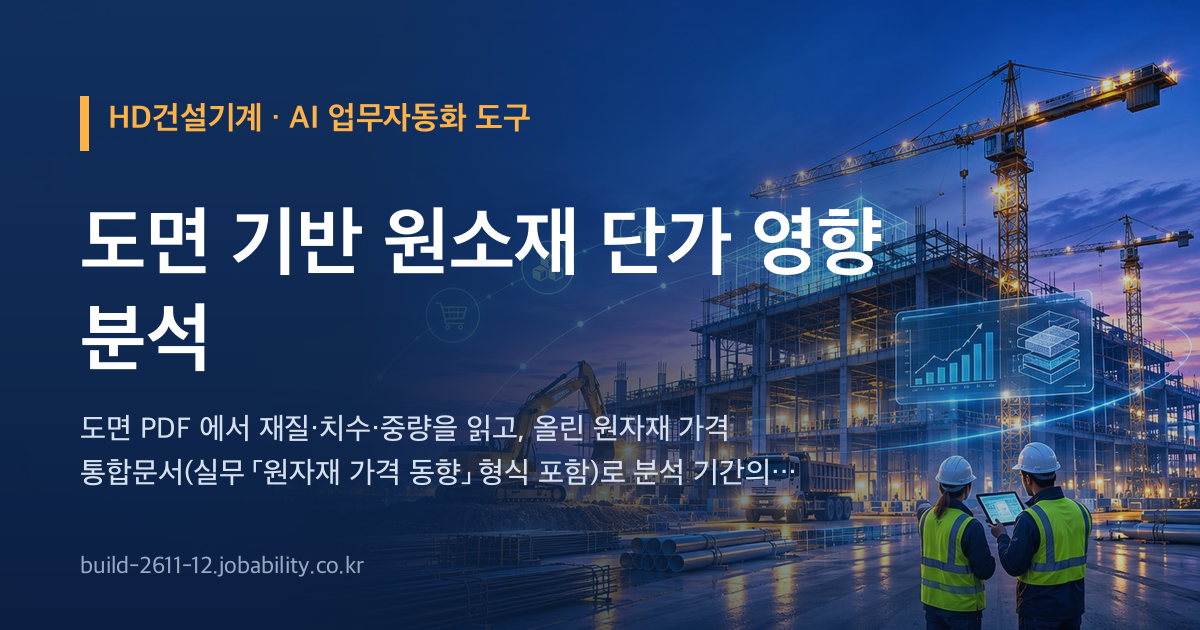
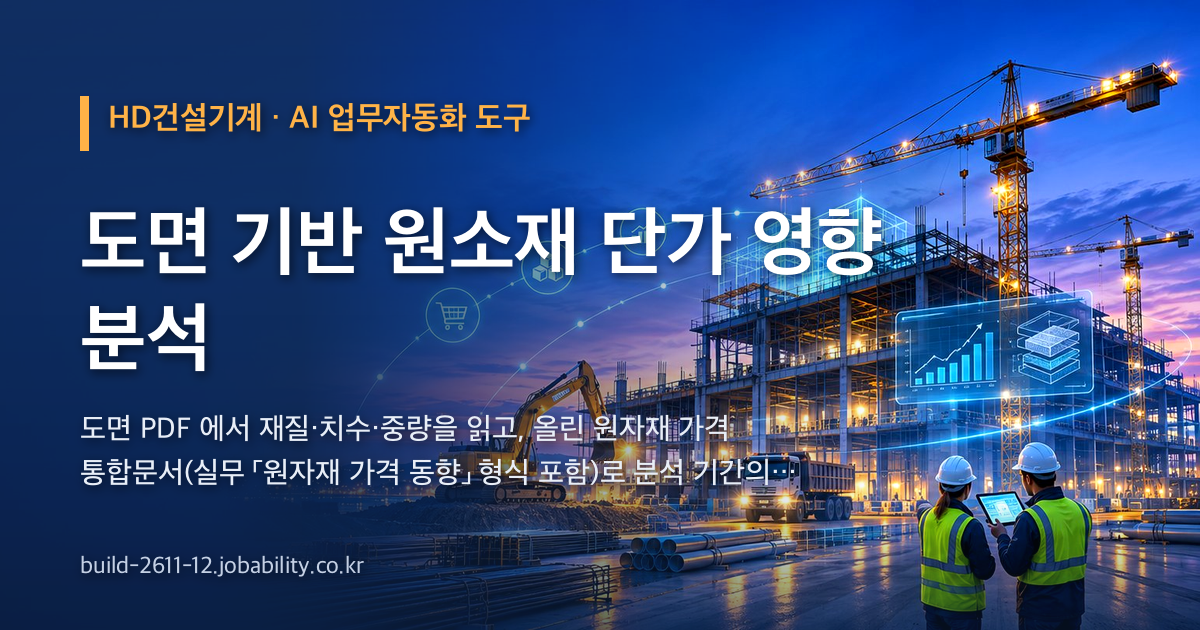
공유 그림 다시(사진 또렷하게) · 판 2026-11-13.12

diff --git a/index.html b/index.html
@@ -12,8 +12,8 @@
 <meta property="og:title" content="HD건설기계 · 도면 기반 원소재 단가 영향 분석">
 <meta property="og:description" content="도면 PDF 에서 재질·치수·중량을 읽고, 올린 원자재 가격 통합문서(실무 「원자재 가격 동향」 형식 포함)로 분석 기간의 가격 변동률을 구해 소재 원가 × 변동률만큼의 제품 단가 영향을 계산하는 브라우저 도구입니다. 규격 칸의 재질로 Index 를 맞추고, 맞는 Index 가 없으면">
 <meta property="og:url" content="https://build-2611-12.jobability.co.kr/">
-<meta property="og:image" content="https://build-2611-12.jobability.co.kr/og-image.png">
-<meta property="og:image:secure_url" content="https://build-2611-12.jobability.co.kr/og-image.png">
+<meta property="og:image" content="https://build-2611-12.jobability.co.kr/og-image.png?v=2">
+<meta property="og:image:secure_url" content="https://build-2611-12.jobability.co.kr/og-image.png?v=2">
 <meta property="og:image:type" content="image/png">
 <meta property="og:image:width" content="1200">
 <meta property="og:image:height" content="630">
@@ -22,7 +22,7 @@
 <meta name="twitter:card" content="summary_large_image">
 <meta name="twitter:title" content="HD건설기계 · 도면 기반 원소재 단가 영향 분석">
 <meta name="twitter:description" content="도면 PDF 에서 재질·치수·중량을 읽고, 올린 원자재 가격 통합문서(실무 「원자재 가격 동향」 형식 포함)로 분석 기간의 가격 변동률을 구해 소재 원가 × 변동률만큼의 제품 단가 영향을 계산하는 브라우저 도구입니다. 규격 칸의 재질로 Index 를 맞추고, 맞는 Index 가 없으면">
-<meta name="twitter:image" content="https://build-2611-12.jobability.co.kr/og-image.png">
+<meta name="twitter:image" content="https://build-2611-12.jobability.co.kr/og-image.png?v=2">
 <!-- /seo-kit -->
 <meta name="description" content="도면 PDF 에서 재질·치수·중량을 읽고, 올린 원자재 가격 통합문서(실무 「원자재 가격 동향」 형식 포함)로 분석 기간의 가격 변동률을 구해 소재 원가 × 변동률만큼의 제품 단가 영향을 계산하는 브라우저 도구입니다. 규격 칸의 재질로 Index 를 맞추고, 맞는 Index 가 없으면 같은 계열 후보를 가격 움직임으로 비교해 추정으로 보여 줍니다.">
 <link rel="icon" href="favicon.svg" type="image/svg+xml">
@@ -30,9 +30,9 @@
 <link rel="stylesheet" href="css/app.css">
 <!-- auth-kit: 로그인 전에는 도구 화면을 감춘다(js/auth.js 가 판정 뒤 푼다) -->
 <script>document.documentElement.classList.add('auth-lock')</script>
-<link rel="stylesheet" href="css/auth.css?v=2026-11-13.11">
-<link rel="stylesheet" href="css/board.css?v=2026-11-13.11">
-<link rel="stylesheet" href="css/kit-build.css?v=2026-11-13.11">
+<link rel="stylesheet" href="css/auth.css?v=2026-11-13.12">
+<link rel="stylesheet" href="css/board.css?v=2026-11-13.12">
+<link rel="stylesheet" href="css/kit-build.css?v=2026-11-13.12">
 <!-- /auth-kit -->
 </head>
 <body>
@@ -156,11 +156,11 @@
 <script src="js/costidx.js"></script>
 <script src="js/app.js"></script>
 <!-- auth-kit: 로그인 · 사용 신청 · 승인 · 게시판(키트 정본 data10-00/kit/auth, 적용 build-2611-00/tools/kit) -->
-<script src="vendor/supabase.js?v=2026-11-13.11"></script>
-<script src="js/auth-config.js?v=2026-11-13.11"></script>
-<script src="js/kit-build.js?v=2026-11-13.11"></script>
-<script src="js/board.js?v=2026-11-13.11"></script>
-<script src="js/auth.js?v=2026-11-13.11"></script>
+<script src="vendor/supabase.js?v=2026-11-13.12"></script>
+<script src="js/auth-config.js?v=2026-11-13.12"></script>
+<script src="js/kit-build.js?v=2026-11-13.12"></script>
+<script src="js/board.js?v=2026-11-13.12"></script>
+<script src="js/auth.js?v=2026-11-13.12"></script>
 <!-- /auth-kit -->
 </body>
 </html>

diff --git a/guide.html b/guide.html
@@ -12,8 +12,8 @@
 <meta property="og:title" content="사용법 — 원소재 가격 변동 · 제품 단가 영향 분석">
 <meta property="og:description" content="도면 PDF 에서 재질·치수·중량을 읽고, 올린 원자재 가격 통합문서(실무 「원자재 가격 동향」 형식 포함)로 분석 기간의 가격 변동률을 구해 소재 원가 × 변동률만큼의 제품 단가 영향을 계산하는 브라우저 도구입니다. 규격 칸의 재질로 Index 를 맞추고, 맞는 Index 가 없으면">
 <meta property="og:url" content="https://build-2611-12.jobability.co.kr/guide.html">
-<meta property="og:image" content="https://build-2611-12.jobability.co.kr/og-image.png">
-<meta property="og:image:secure_url" content="https://build-2611-12.jobability.co.kr/og-image.png">
+<meta property="og:image" content="https://build-2611-12.jobability.co.kr/og-image.png?v=2">
+<meta property="og:image:secure_url" content="https://build-2611-12.jobability.co.kr/og-image.png?v=2">
 <meta property="og:image:type" content="image/png">
 <meta property="og:image:width" content="1200">
 <meta property="og:image:height" content="630">
@@ -22,7 +22,7 @@
 <meta name="twitter:card" content="summary_large_image">
 <meta name="twitter:title" content="사용법 — 원소재 가격 변동 · 제품 단가 영향 분석">
 <meta name="twitter:description" content="도면 PDF 에서 재질·치수·중량을 읽고, 올린 원자재 가격 통합문서(실무 「원자재 가격 동향」 형식 포함)로 분석 기간의 가격 변동률을 구해 소재 원가 × 변동률만큼의 제품 단가 영향을 계산하는 브라우저 도구입니다. 규격 칸의 재질로 Index 를 맞추고, 맞는 Index 가 없으면">
-<meta name="twitter:image" content="https://build-2611-12.jobability.co.kr/og-image.png">
+<meta name="twitter:image" content="https://build-2611-12.jobability.co.kr/og-image.png?v=2">
 <!-- /seo-kit -->
 <link rel="icon" href="favicon.svg" type="image/svg+xml">
 <link rel="stylesheet" href="css/style.css">

diff --git a/plan.html b/plan.html
@@ -12,8 +12,8 @@
 <meta property="og:title" content="기획서 — 도면 기반 원소재 단가 영향 분석">
 <meta property="og:description" content="도면 PDF 에서 재질·치수·중량을 읽고, 올린 원자재 가격 통합문서(실무 「원자재 가격 동향」 형식 포함)로 분석 기간의 가격 변동률을 구해 소재 원가 × 변동률만큼의 제품 단가 영향을 계산하는 브라우저 도구입니다. 규격 칸의 재질로 Index 를 맞추고, 맞는 Index 가 없으면">
 <meta property="og:url" content="https://build-2611-12.jobability.co.kr/plan.html">
-<meta property="og:image" content="https://build-2611-12.jobability.co.kr/og-image.png">
-<meta property="og:image:secure_url" content="https://build-2611-12.jobability.co.kr/og-image.png">
+<meta property="og:image" content="https://build-2611-12.jobability.co.kr/og-image.png?v=2">
+<meta property="og:image:secure_url" content="https://build-2611-12.jobability.co.kr/og-image.png?v=2">
 <meta property="og:image:type" content="image/png">
 <meta property="og:image:width" content="1200">
 <meta property="og:image:height" content="630">
@@ -22,7 +22,7 @@
 <meta name="twitter:card" content="summary_large_image">
 <meta name="twitter:title" content="기획서 — 도면 기반 원소재 단가 영향 분석">
 <meta name="twitter:description" content="도면 PDF 에서 재질·치수·중량을 읽고, 올린 원자재 가격 통합문서(실무 「원자재 가격 동향」 형식 포함)로 분석 기간의 가격 변동률을 구해 소재 원가 × 변동률만큼의 제품 단가 영향을 계산하는 브라우저 도구입니다. 규격 칸의 재질로 Index 를 맞추고, 맞는 Index 가 없으면">
-<meta name="twitter:image" content="https://build-2611-12.jobability.co.kr/og-image.png">
+<meta name="twitter:image" content="https://build-2611-12.jobability.co.kr/og-image.png?v=2">
 <!-- /seo-kit -->
 <link rel="icon" href="favicon.svg" type="image/svg+xml">
 <link rel="stylesheet" href="css/style.css">

diff --git a/report.html b/report.html
@@ -12,8 +12,8 @@
 <meta property="og:title" content="평가보고서 — 도면 기반 원소재 단가 영향 분석">
 <meta property="og:description" content="도면 기반 원소재 단가 영향 분석 점검 · 평가보고서(2026-11-13) — 사이트 점검, 기능과 시험, 인계 준비, 판 이력, 한계.">
 <meta property="og:url" content="https://build-2611-12.jobability.co.kr/report.html">
-<meta property="og:image" content="https://build-2611-12.jobability.co.kr/og-image.png">
-<meta property="og:image:secure_url" content="https://build-2611-12.jobability.co.kr/og-image.png">
+<meta property="og:image" content="https://build-2611-12.jobability.co.kr/og-image.png?v=2">
+<meta property="og:image:secure_url" content="https://build-2611-12.jobability.co.kr/og-image.png?v=2">
 <meta property="og:image:type" content="image/png">
 <meta property="og:image:width" content="1200">
 <meta property="og:image:height" content="630">
@@ -22,7 +22,7 @@
 <meta name="twitter:card" content="summary_large_image">
 <meta name="twitter:title" content="평가보고서 — 도면 기반 원소재 단가 영향 분석">
 <meta name="twitter:description" content="도면 기반 원소재 단가 영향 분석 점검 · 평가보고서(2026-11-13) — 사이트 점검, 기능과 시험, 인계 준비, 판 이력, 한계.">
-<meta name="twitter:image" content="https://build-2611-12.jobability.co.kr/og-image.png">
+<meta name="twitter:image" content="https://build-2611-12.jobability.co.kr/og-image.png?v=2">
 <!-- /seo-kit -->
 <meta name="description" content="도면 기반 원소재 단가 영향 분석 점검 · 평가보고서(2026-11-13) — 사이트 점검, 기능과 시험, 인계 준비, 판 이력, 한계.">
 <link rel="icon" href="favicon.svg" type="image/svg+xml">
